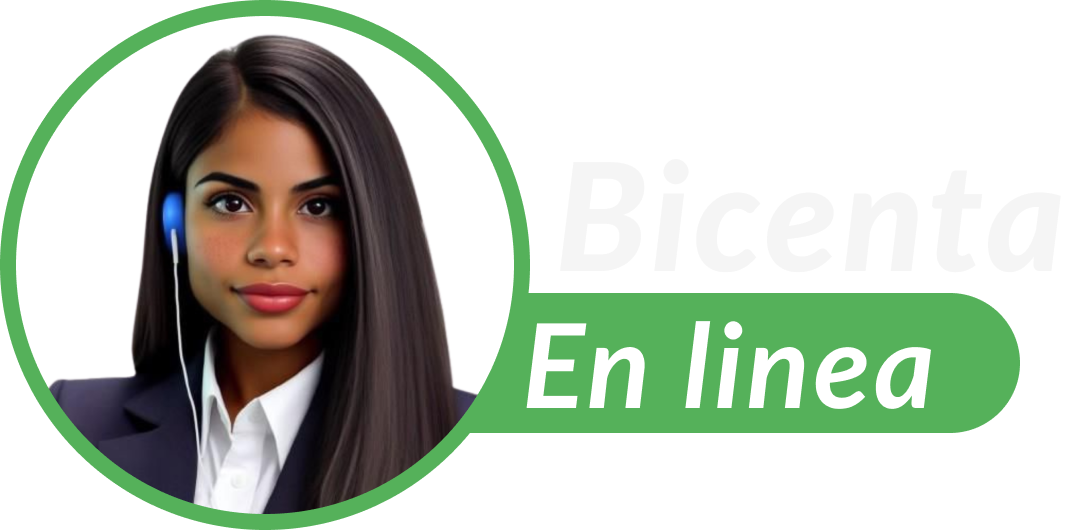
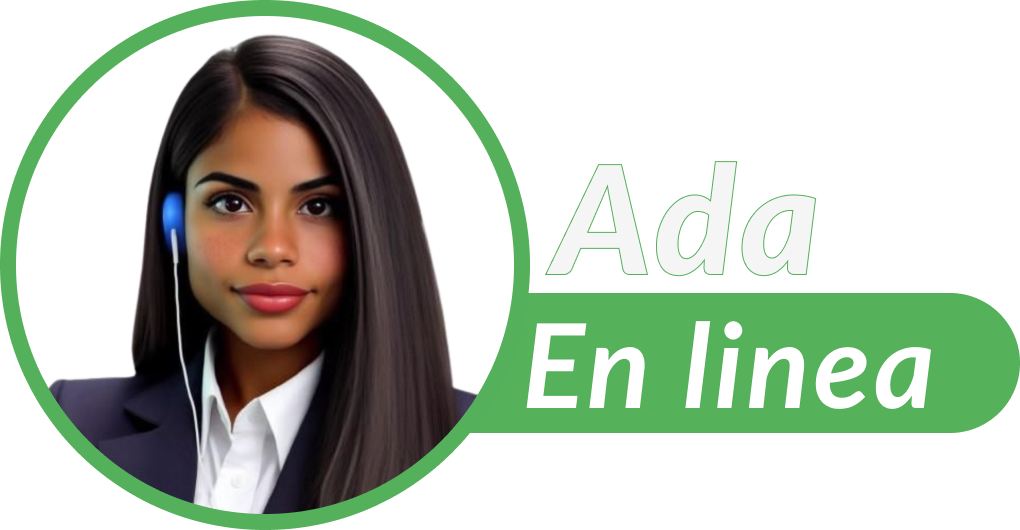
se le agrego un background al login

diff --git a/app/layout.tsx b/app/layout.tsx
@@ -1,5 +1,5 @@
 import type { Metadata } from "next";
-import { Inter } from "next/font/google";
+import { Lato } from "next/font/google";
 import "./globals.css";
 import { AppRouterCacheProvider } from "@mui/material-nextjs/v13-appRouter";
 import { ThemeProvider } from "@mui/material/styles";
@@ -9,7 +9,11 @@ import StoreProvider from "@/context/storeContext/StoreProvider";
 import RenderProvider from "@/context/render/renderProvider";
 import Loading from "@/components/layout/Loading";
 
-const inter = Inter({ subsets: ["latin"] });
+const lato = Lato({
+  subsets: ["latin"],
+  weight: ["400", "700"], // Especifica los pesos que necesitas
+  style: ["normal", "italic"], // Especifica los estilos si es necesario
+});
 
 export const metadata: Metadata = {
   title: "Create Next App",
@@ -23,7 +27,7 @@ export default function RootLayout({
 }>) {
   return (
     <html lang="es">
-      <body className={inter.className+ "overflow-hidden"} >
+      <body className={lato.className+ "overflow-hidden"} >
         <AppRouterCacheProvider>
           <ThemeProvider theme={theme}>
             <RenderProvider>

diff --git a/app/login/page.tsx b/app/login/page.tsx
@@ -10,6 +10,7 @@ import "react-toastify/dist/ReactToastify.css";
 import { useRender } from "@/context/render/renderProvider";
 import FormLogin from "@/components/login/FormLogin";
 import { Metadata } from "next";
+import background from '../../images/background.svg'
 
 export const metadata: Metadata = {
   title: "Login",
@@ -21,7 +22,7 @@ function Login() {
 
   return (
     <>
-      <div className=" bg-secondary ">
+      <div className=" bg-secondary bg-custom-image ">
         <div className=" dark:bg-gray-900 h-screen flex items-center ">
           <div className=" flex justify-center rounded-xl w-full h-2/3">
             <main

diff --git a/app/globals.css b/app/globals.css
@@ -90,6 +90,13 @@ body {
   animation: sk-chase-dot-before 2.0s infinite ease-in-out both; 
 }
 
+.bg-custom-image {
+  background-image: url('./../images/background.svg');
+  background-size: cover;
+  background-position: center;
+  background-repeat: no-repeat;
+}
+
 .sk-chase-dot:nth-child(1) { animation-delay: -1.1s; }
 .sk-chase-dot:nth-child(2) { animation-delay: -1.0s; }
 .sk-chase-dot:nth-child(3) { animation-delay: -0.9s; }
